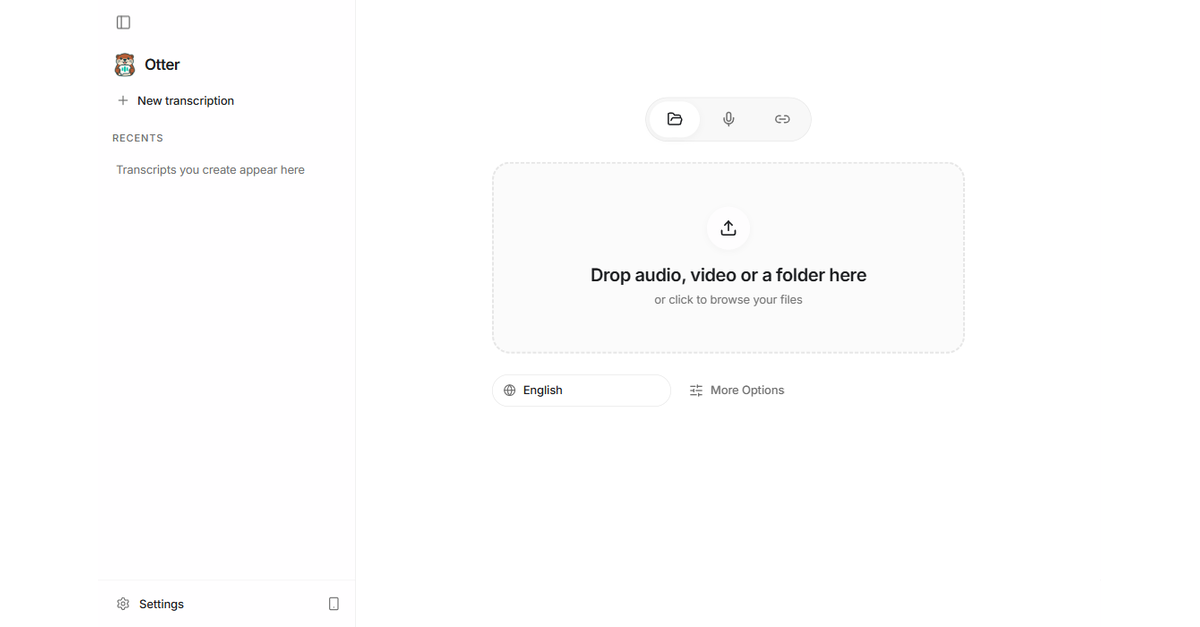
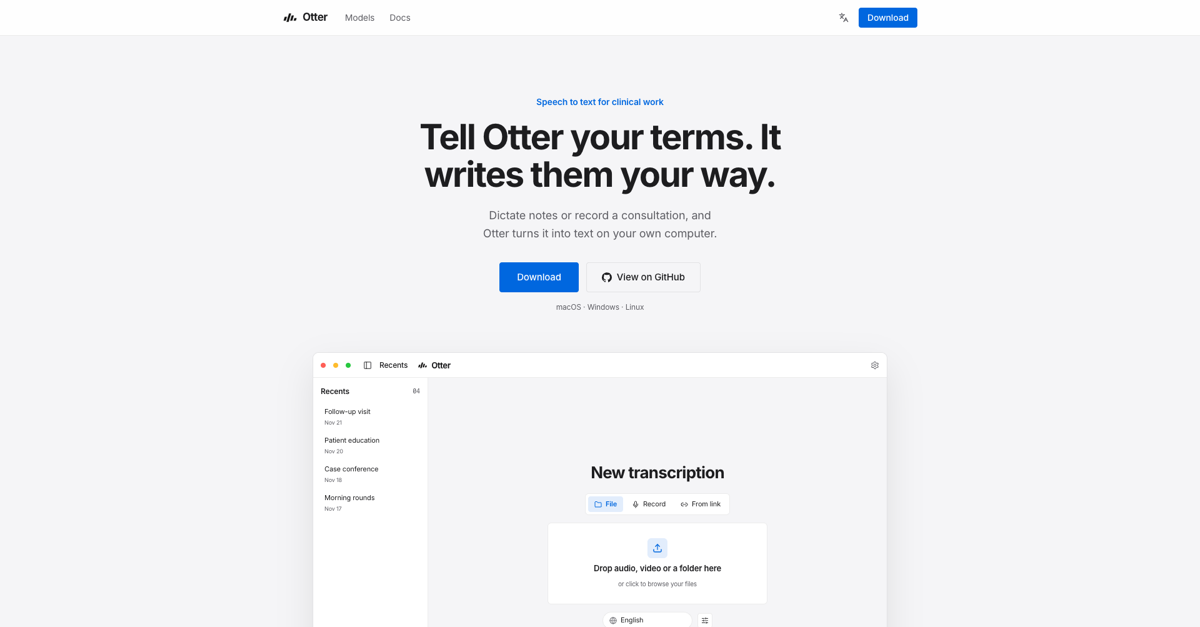
chore(website): new title, description and share image

diff --git a/website/index.html b/website/index.html
@@ -3,12 +3,12 @@
 	<head>
 		<meta charset="utf-8" />
 		<meta name="viewport" content="width=device-width, initial-scale=1" />
-		<title>Otter - Local Audio & Video Transcription App</title>
+		<title>Otter — Speech to text for clinical work</title>
 		<meta
 			name="description"
-			content="Otter is a local-first transcription app for audio and video. Transcribe files, URLs, and recordings with AI summaries, multilingual support, and privacy-focused processing." />
+			content="Dictate notes or record a consultation, and Otter turns it into text on your own computer. Tell it your terms and it spells them your way. Free and open source." />
 		<link rel="author" href="https://github.com/victorfu" />
-		<meta name="keywords" content="transcription, audio transcription, video transcription, speech to text, AI assistant, local app, whisper" />
+		<meta name="keywords" content="medical transcription, medical dictation, clinical notes, speech to text, dictation, local transcription, whisper" />
 		<meta name="theme-color" media="(prefers-color-scheme: light)" content="#f5f5f7" />
 		<meta name="theme-color" media="(prefers-color-scheme: dark)" content="#1e1e1e" />
 
@@ -26,29 +26,29 @@
 		<!-- Open Graph -->
 		<meta property="og:type" content="website" />
 		<meta property="og:site_name" content="Otter" />
-		<meta property="og:title" content="Otter - Local Audio & Video Transcription App" />
+		<meta property="og:title" content="Otter — Speech to text for clinical work" />
 		<meta
 			property="og:description"
-			content="Local-first transcription for audio and video with AI summaries, multilingual support, and privacy-focused processing." />
+			content="Dictate notes or record a consultation, and Otter turns it into text on your own computer. Tell it your terms and it spells them your way. Free and open source." />
 		<meta property="og:url" content="https://victorfu.github.io/otter/" />
 		<meta property="og:locale" content="en_US" />
 		<meta property="og:image:type" content="image/png" />
 		<meta property="og:image:width" content="1200" />
 		<meta property="og:image:height" content="627" />
 		<meta property="og:image" content="https://victorfu.github.io/otter/og.png" />
-		<meta property="og:image:alt" content="Otter app preview" />
+		<meta property="og:image:alt" content="Otter home page: speech to text for clinical work" />
 
 		<!-- Twitter -->
 		<meta name="twitter:card" content="summary_large_image" />
-		<meta name="twitter:title" content="Otter - Local Audio & Video Transcription App" />
+		<meta name="twitter:title" content="Otter — Speech to text for clinical work" />
 		<meta
 			name="twitter:description"
-			content="Local-first transcription for audio and video with AI summaries, multilingual support, and privacy-focused processing." />
+			content="Dictate notes or record a consultation, and Otter turns it into text on your own computer. Tell it your terms and it spells them your way. Free and open source." />
 		<meta name="twitter:image:type" content="image/png" />
 		<meta name="twitter:image:width" content="1200" />
 		<meta name="twitter:image:height" content="627" />
 		<meta name="twitter:image" content="https://victorfu.github.io/otter/og.png" />
-		<meta name="twitter:image:alt" content="Otter app preview" />
+		<meta name="twitter:image:alt" content="Otter home page: speech to text for clinical work" />
 
 		<!-- Favicons -->
 		<link rel="icon" href="/otter/favicon.ico" />
@@ -56,7 +56,6 @@
 		<link rel="apple-touch-icon" href="/otter/favicon-180x180.png" />
 
 		<!-- Preload -->
-		<link rel="preload" as="image" href="/otter/preview.png" />
 
 		<!-- Structured Data -->
 		<script type="application/ld+json" src="/otter/structured-data.jsonld"></script>
